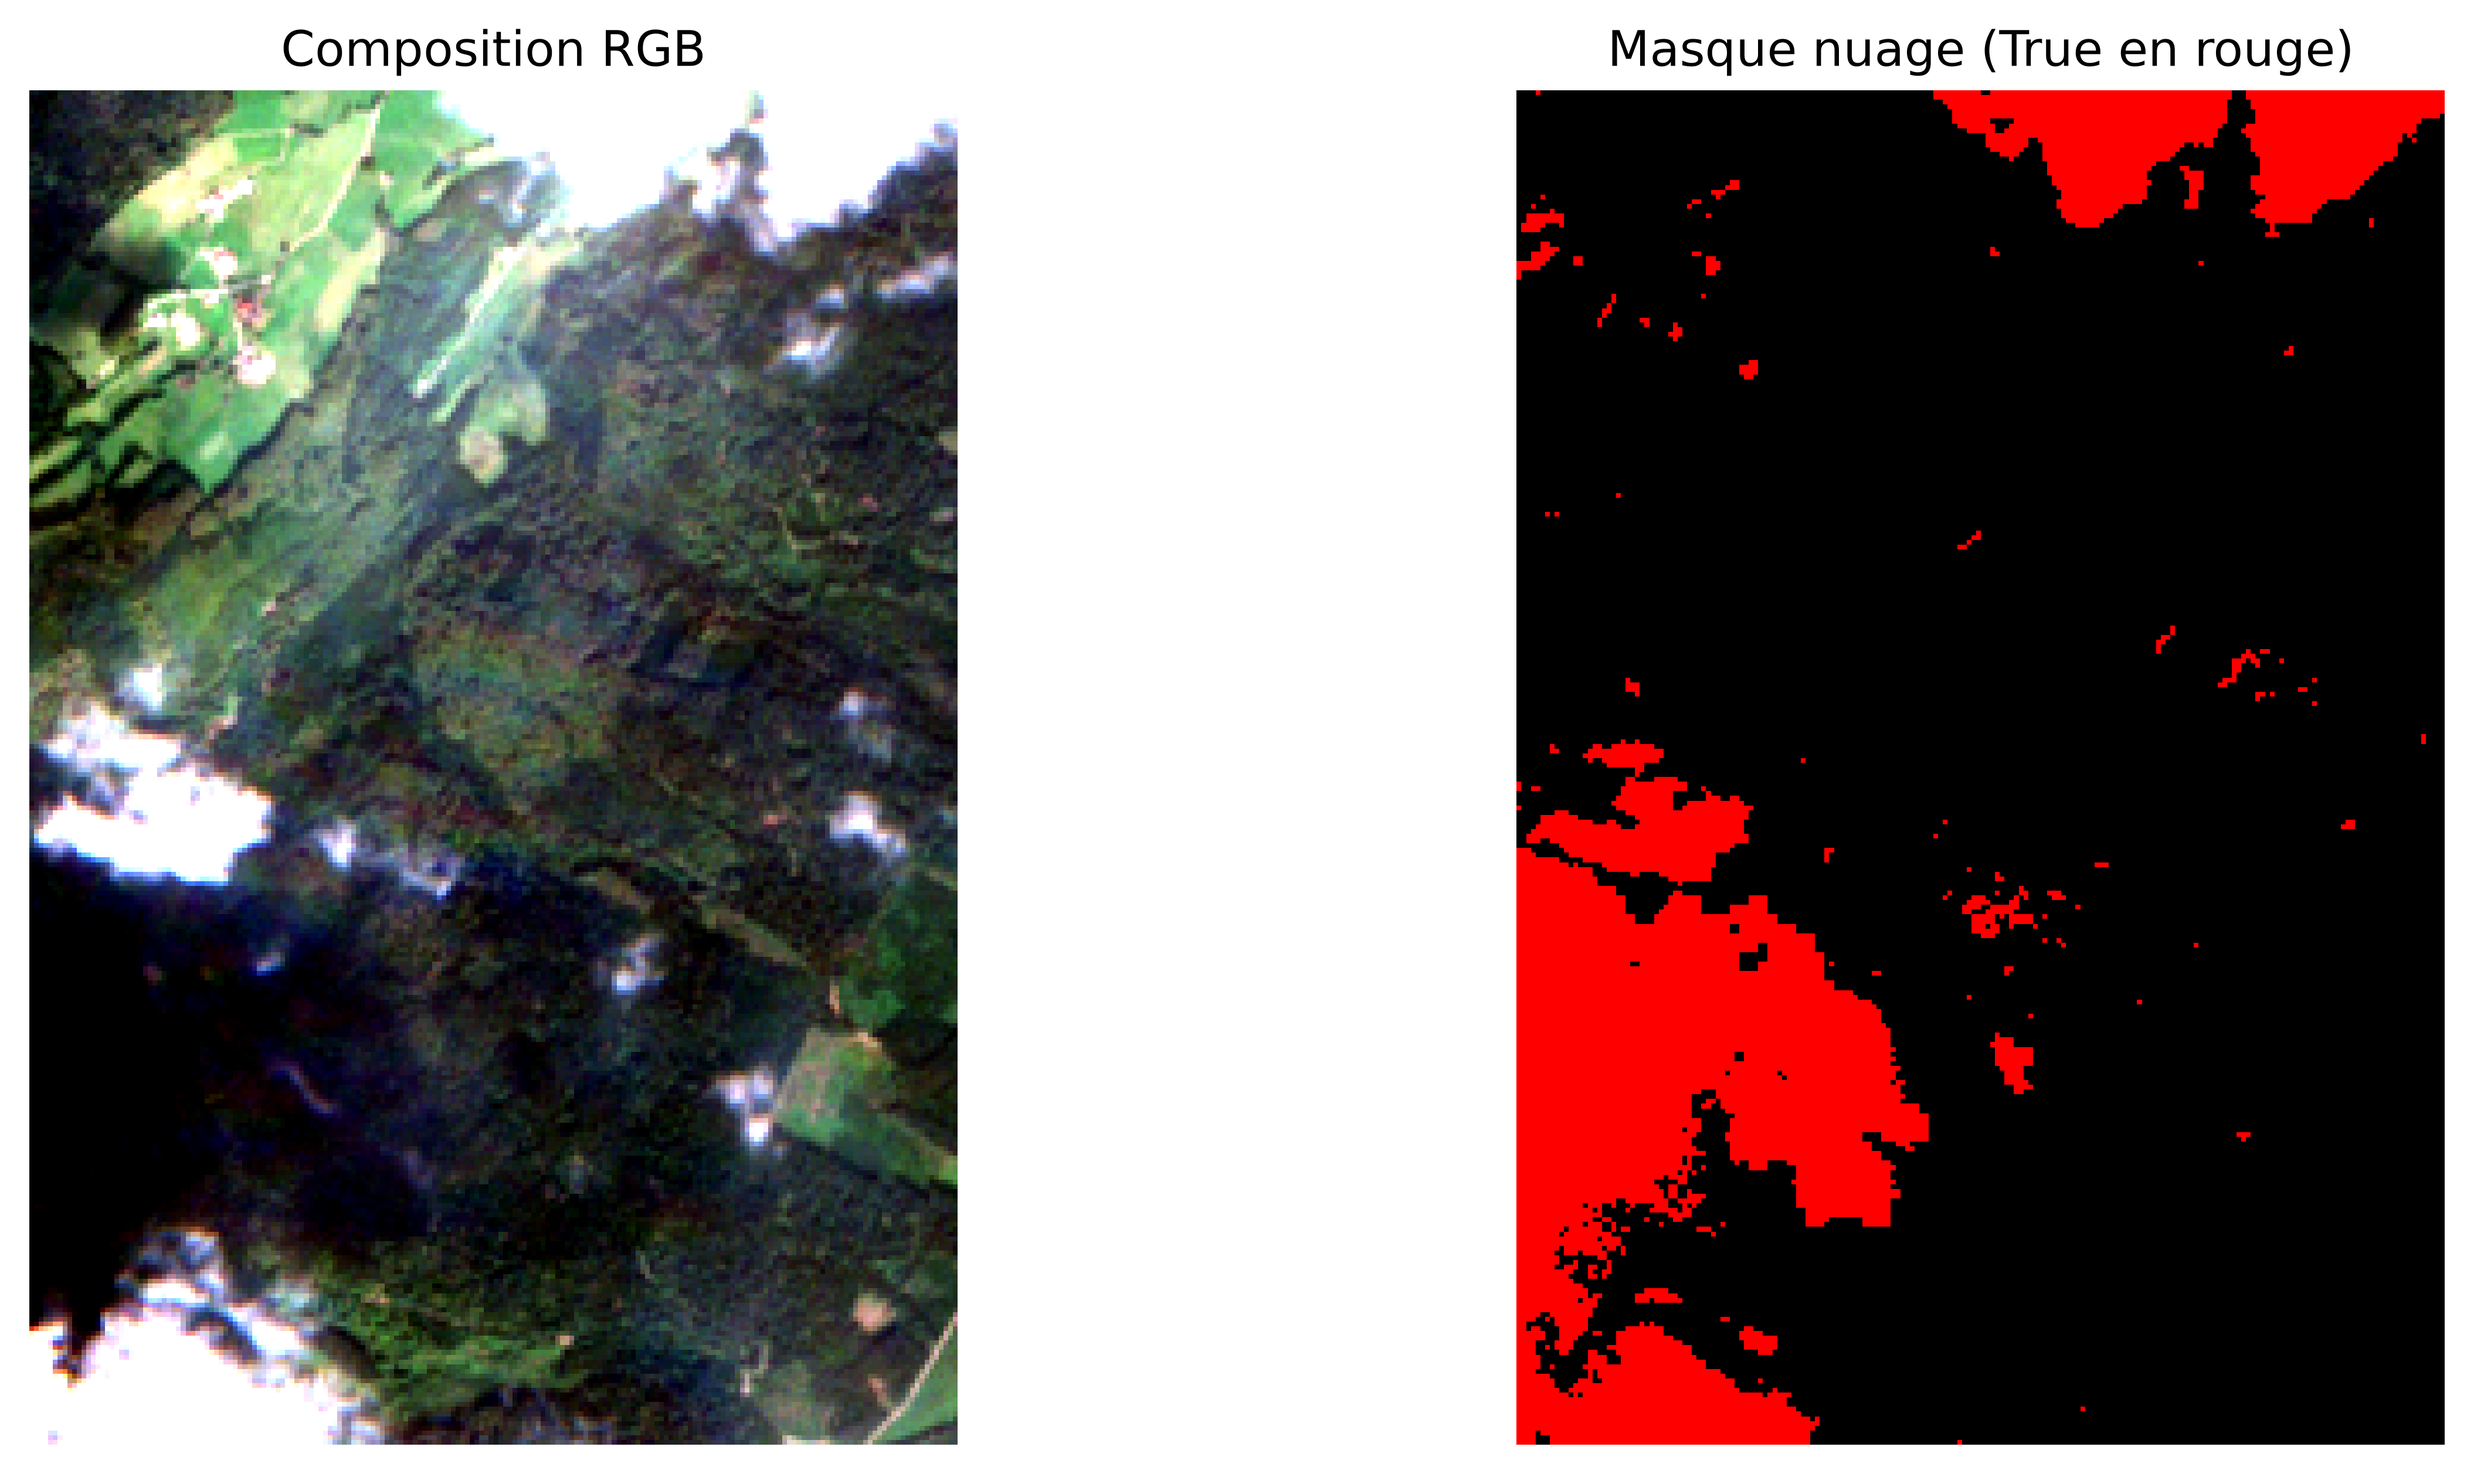
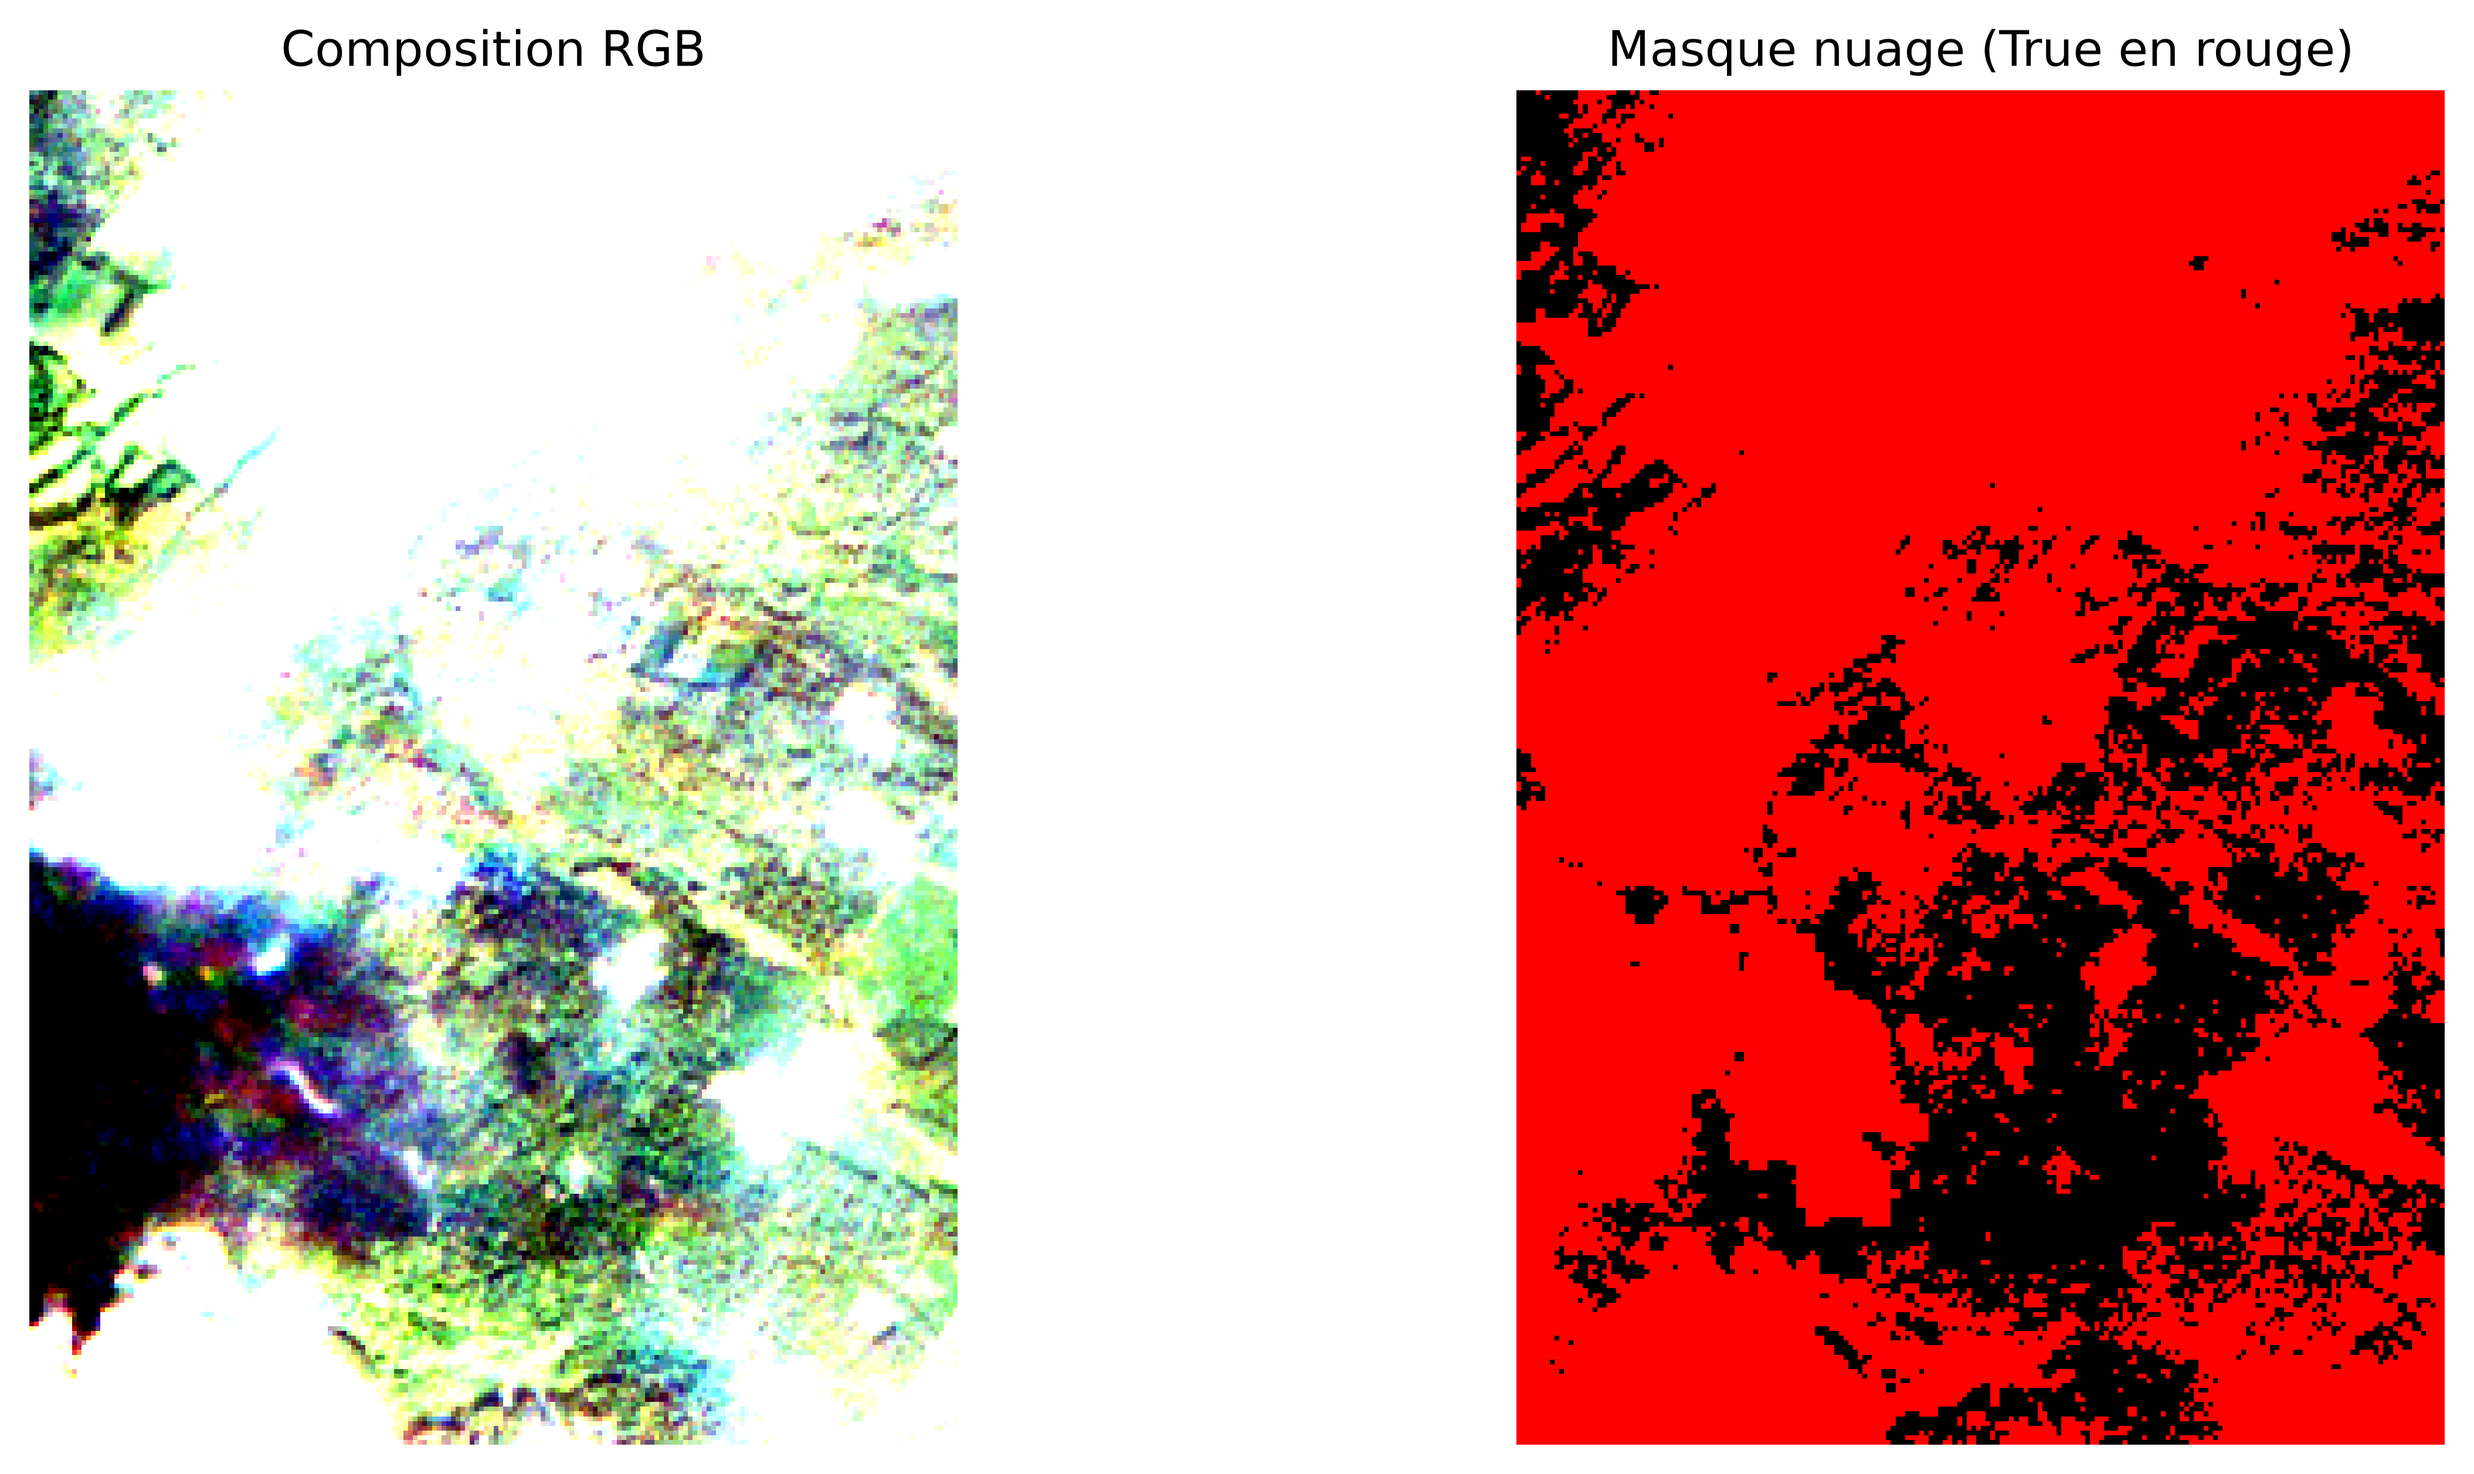
mask

diff --git a/preprocess.py b/preprocess.py
@@ -36,7 +36,7 @@ def apply_cloud_mask(
         A boolean array where True indicates a cloud, cloud shadow,
         non-vegetation or invalid/SCL pixel.
     """
-    bands = ("B02","B04","B08", "B11")
+    bands = ("B02","B03","B04","B08", "B11")
     values = []
 
     for band in bands:
@@ -48,10 +48,12 @@ def apply_cloud_mask(
     if any(value.shape != shape for value in values):
         raise ValueError("All raster bands must have the same shape")
 
-    b02, b04, b08, b11 = values
-    mask =(((b08 - b04) / (b08 + b04)) > 0.2) & (b02 < 0.12) & (b08 > 0.15) & (b11 > 0.08)
+    b02, b03, b04, b08, b11 = values
+    mask =(((b08 - b04) / (b08 + b04)) > 0.2) & (b02 < 0.12) & (b08 >= 0.15) & (b03 <0.065)& (b11 > 0.08)
     mask = ~mask
     return mask
+# (b08 <= 0.4)
+
 
 def apply_rgb_compo(
     rasters: Dict[str, rasterio.io.DatasetReader], 
